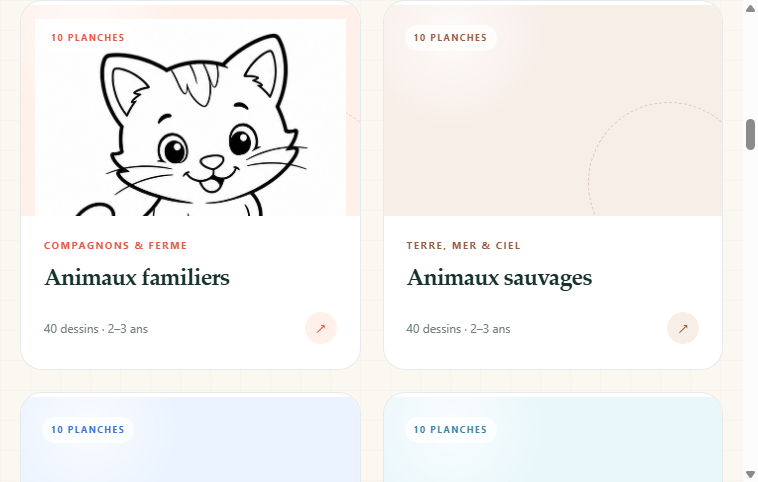
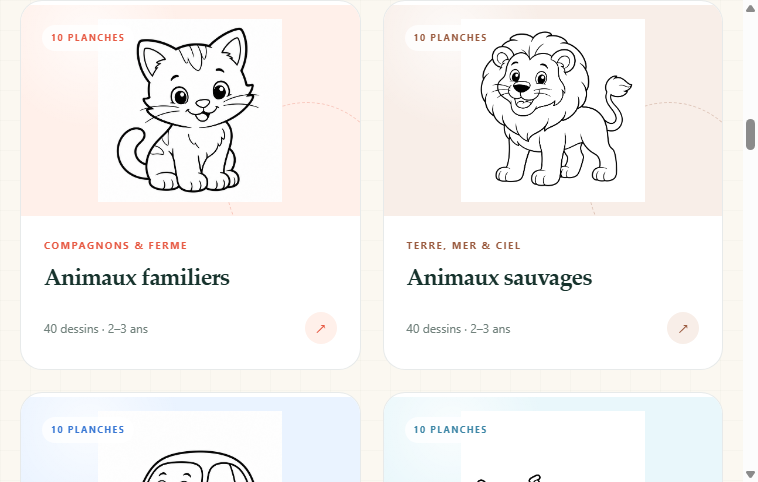
fix: show complete catalogue previews

diff --git a/styles.css b/styles.css
@@ -638,11 +638,23 @@ svg {
   display: grid;
   min-height: 0;
   place-items: center;
+  overflow: hidden;
+  margin-block: 12px;
+  border-radius: 16px;
+  background: #f4ede2;
 }
 
 .hero-sheet__drawing .line-art-svg {
   width: 100%;
   max-height: 300px;
+}
+
+.hero-sheet__drawing .hero-drawing__image {
+  width: 100%;
+  height: 100%;
+  object-fit: contain;
+  object-position: center;
+  background: #f4ede2;
 }
 
 .hero-sheet__caption {
@@ -930,13 +942,26 @@ svg {
 }
 
 .catalogue-card__visual .catalogue-card__image {
-  position: relative;
+  position: absolute;
+  inset: 0;
   z-index: 1;
   width: 100%;
+  max-width: none;
   height: 100%;
+  max-height: none;
   object-fit: contain;
   object-position: center;
   background: transparent;
+}
+
+.catalogue-card__media {
+  position: absolute;
+  inset: 14px;
+  z-index: 1;
+  display: grid;
+  min-width: 0;
+  min-height: 0;
+  place-items: center;
 }
 
 .catalogue-card__visual::before {
@@ -1945,6 +1970,10 @@ svg {
   .catalogue-card__visual {
     aspect-ratio: 4 / 3;
     padding: 18px;
+  }
+
+  .catalogue-card__media {
+    inset: 18px;
   }
 
   .atelier-section {

diff --git a/app.js b/app.js
@@ -124,9 +124,16 @@ function renderStats() {
 
 function renderHeroDrawing() {
   const target = document.getElementById("hero-drawing");
-  const entry = state.catalogues[0]?.entries[0];
-  if (!target || !entry) return;
-  target.innerHTML = imageMarkup(entry, "hero-drawing__image");
+  if (!target) return;
+  target.innerHTML = `
+    <img
+      class="hero-drawing__image"
+      src="assets/hero/enfants-coloriage.png"
+      alt=""
+      loading="eager"
+      decoding="async"
+    />
+  `;
 }
 
 function installSurpriseGenerator() {
@@ -267,7 +274,9 @@ function renderLibrary() {
           aria-label="Ouvrir le catalogue ${escapeAttribute(catalogue.title)}"
         >
           <span class="catalogue-card__visual">
-            ${imageMarkup(catalogue.entries[0], "catalogue-card__image")}
+            <span class="catalogue-card__media">
+              ${imageMarkup(catalogue.entries[0], "catalogue-card__image")}
+            </span>
           </span>
           <span class="catalogue-card__body">
             <span class="catalogue-card__eyebrow">${escapeHtml(catalogue.eyebrow)}</span>

diff --git a/index.html b/index.html
@@ -10,7 +10,7 @@
     />
     <title>Ma famille en couleur — Catalogues de coloriage</title>
     <link rel="icon" href="favicon.svg" type="image/svg+xml" />
-    <link rel="stylesheet" href="styles.css" />
+    <link rel="stylesheet" href="styles.css?v=20260718-2" />
   </head>
   <body>
     <a class="skip-link" href="#catalogues">Aller aux catalogues</a>
@@ -74,13 +74,13 @@
           <div class="paper-stack paper-stack--middle"></div>
           <article class="hero-sheet">
             <div class="hero-sheet__top">
-              <span>MON CAHIER N°01</span>
-              <span>ANIMAUX</span>
+              <span>MON ATELIER CRÉATIF</span>
+              <span>ENSEMBLE</span>
             </div>
             <div id="hero-drawing" class="hero-sheet__drawing"></div>
             <div class="hero-sheet__caption">
-              <strong>Le lion majestueux</strong>
-              <span>Observe • Imagine • Colorie</span>
+              <strong>Créer ensemble</strong>
+              <span>Imagine • Dessine • Colorie</span>
             </div>
           </article>
           <div class="pencil pencil--coral"></div>
@@ -247,6 +247,6 @@
     <div id="status-toast" class="status-toast" role="status" aria-live="polite"></div>
     <div id="print-area" class="print-area" aria-hidden="true"></div>
 
-    <script src="app.js"></script>
+    <script src="app.js?v=20260718-2"></script>
   </body>
 </html>